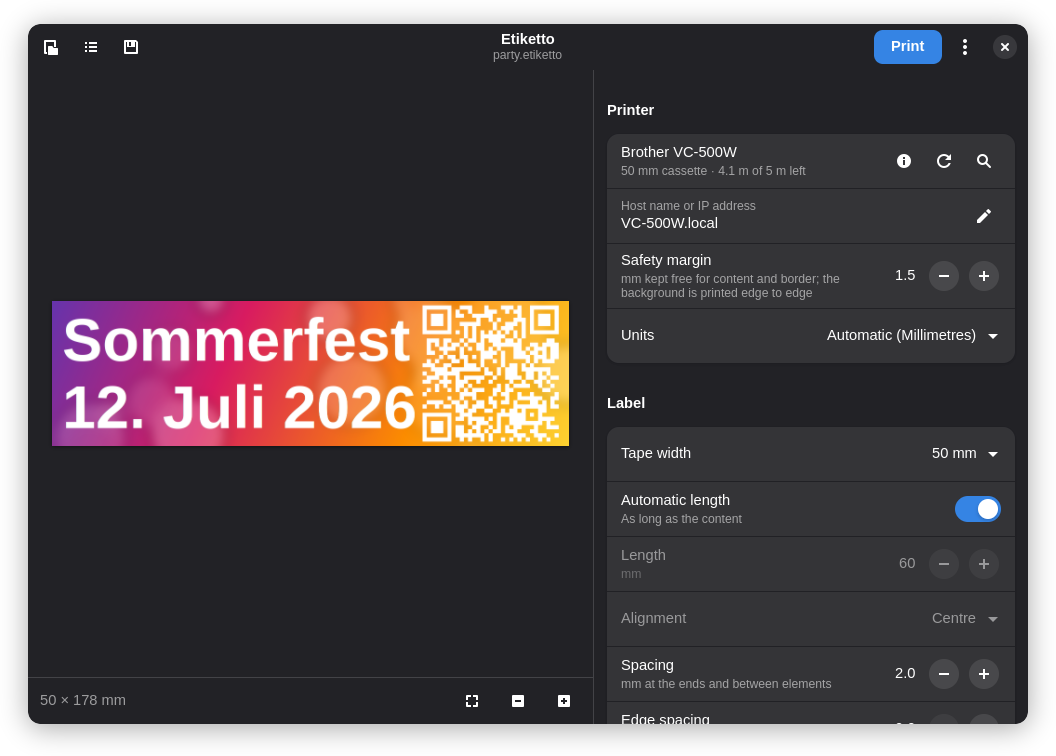
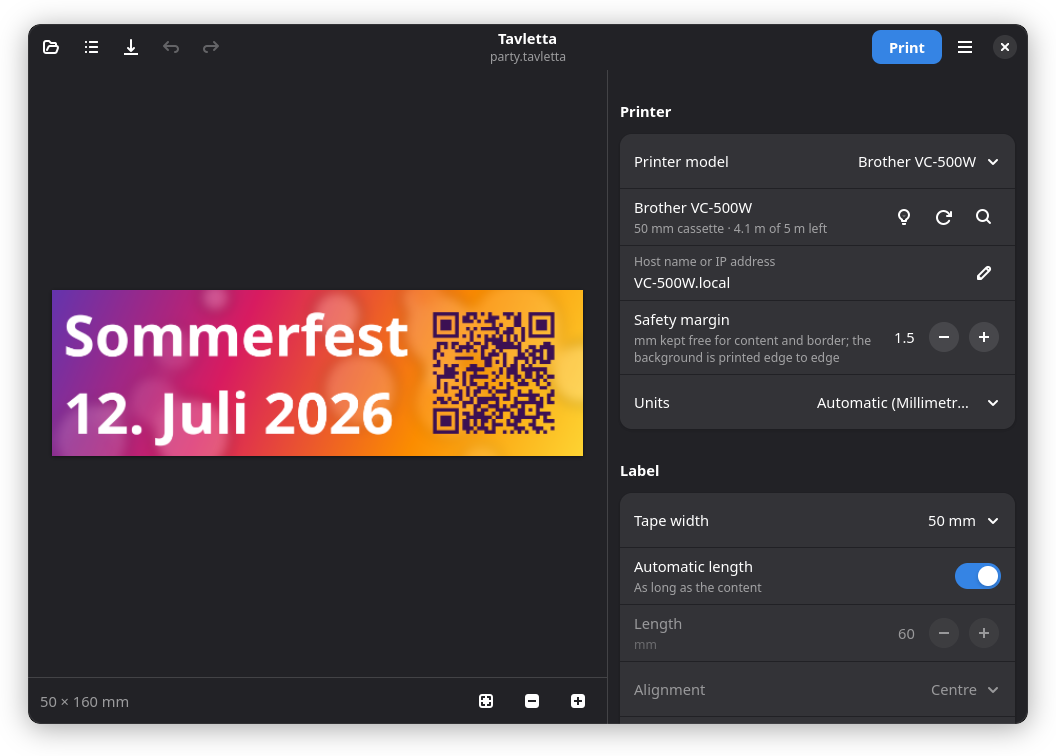
Screenshots retaken with the new name, in a headless session of their own
tools/screenshots.sh runs the app on a D-Bus session of its own and, by
default, on a headless display (a virtual KWin without lock screen, else
gtk4-broadwayd), so no window appears on the desktop and no running
Tavletta receives the files; SHOTS_ON_DESKTOP=1 keeps the old way. The
app sizes its screenshot window (1000x700) and uses the Adwaita icons
itself. An empty snapshot is retried. All README screenshots retaken
(old name, old QR codes). Metainfo screenshot URLs point at v1.1.0.

diff --git a/tavletta/app.py b/tavletta/app.py
@@ -120,10 +120,14 @@ class App(Adw.Application):
             return
         state = GLib.getenv("TAVLETTA_SCREENSHOT_STATE") or ""
         delay = int(GLib.getenv("TAVLETTA_SCREENSHOT_DELAY") or "3000")
+        # the size of the README screenshots, also where nothing resizes the
+        # window from outside (a headless Broadway session)
+        window.set_default_size(1000, 700)
         # GNOME defaults, whatever the developer's desktop uses
         settings = Gtk.Settings.get_default()
         settings.set_property("gtk-decoration-layout", ":close")
         settings.set_property("gtk-font-name", "Sans 11")
+        settings.set_property("gtk-icon-theme-name", "Adwaita")
 
         def prepare():
             # a believable printer instead of the network
